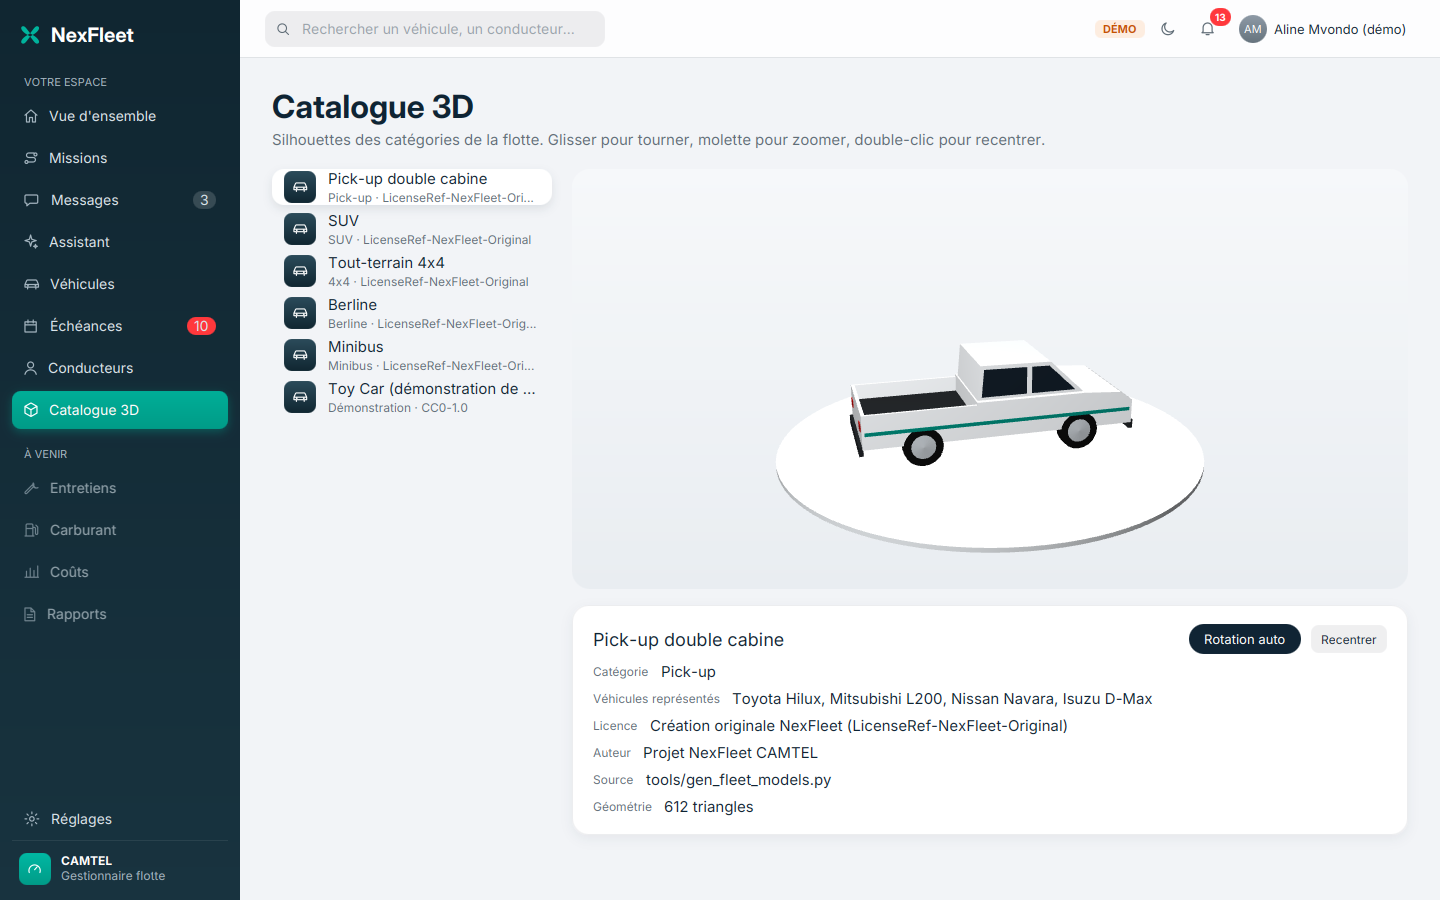
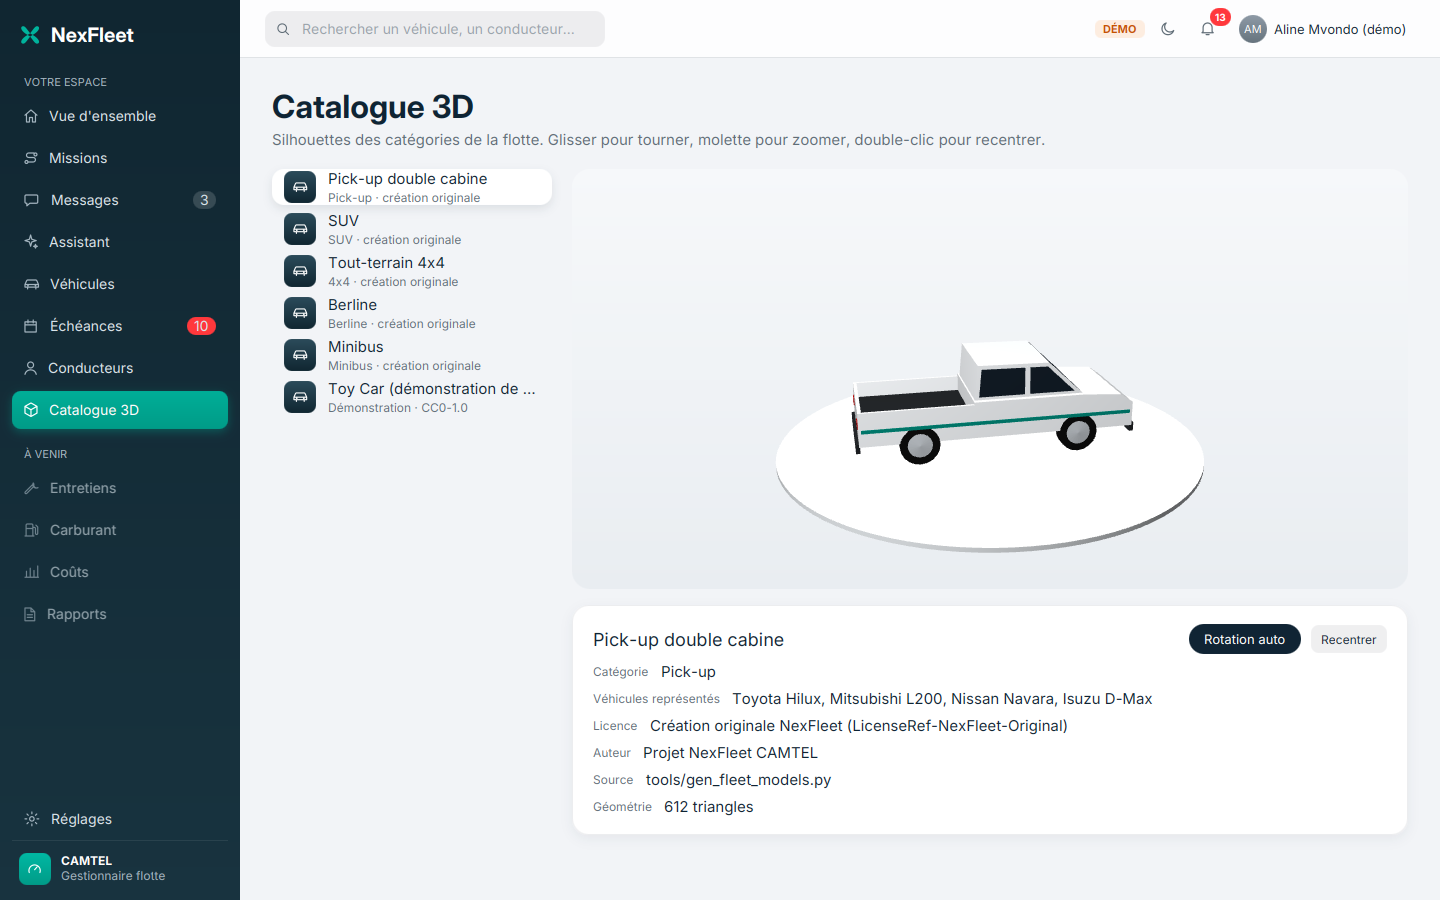
DEB : scripts postinst/prerm tolérants (xdg-desktop-menu), entrée de menu française, construction sur Ubuntu 22.04 ; CI : installation, lancement réel sous Xvfb et désinstallation du DEB ; capture du catalogue
Claude-Session: https://claude.ai/code/session_01ThcppnzdjkAULhjY9Xgm7R

diff --git a/docs/INSTALLATION.md b/docs/INSTALLATION.md
@@ -9,7 +9,7 @@ Chaque exécution réussie de la CI (onglet **Actions** du dépôt) publie ces a
 
 | Artefact | Contenu |
 |---|---|
-| `nexfleet-bureau-deb` | `nexfleet_0.3.0_amd64.deb` (Ubuntu 22.04+ / Debian 12+, JRE et JavaFX embarqués) |
+| `nexfleet-bureau-deb` | `nexfleet_0.3.0_amd64.deb` (construit sur Ubuntu 22.04 : Ubuntu 22.04 / 24.04, Debian 12+ ; JRE et JavaFX embarqués) |
 | `nexfleet-bureau-exe` | `NexFleet-0.3.0.exe` (Windows 10/11, installation par utilisateur, sans droits administrateur) |
 | `nexfleet-android-apk` | `nexfleet-0.3.0-debug.apk` et `nexfleet-0.3.0-release-unsigned.apk` (ou `-release.apk` si signé) |
 | `nexfleet-api-jar` | Jar exécutable de l'API Spring Boot |
@@ -44,7 +44,7 @@ aucune collecte n'est possible par erreur. L'API et la passerelle doivent être 
 ## 3. Poste bureau
 
 **Linux** : `sudo apt install ./nexfleet_0.3.0_amd64.deb`, puis menu Bureautique → NexFleet, ou `/opt/nexfleet/bin/NexFleet`.
-La CI installe réellement ce paquet sur Ubuntu 24.04 à chaque exécution.
+La CI installe réellement ce paquet, lance l'application installée sous Xvfb (parcours de démonstration complet), puis la désinstalle, à chaque exécution.
 
 **Windows** : double-cliquer sur `NexFleet-0.3.0.exe`, choisir le dossier, raccourci créé dans le menu Démarrer.
 Le paquet n'est pas signé (certificat de signature de code CAMTEL à fournir) : Windows SmartScreen demandera une confirmation.
